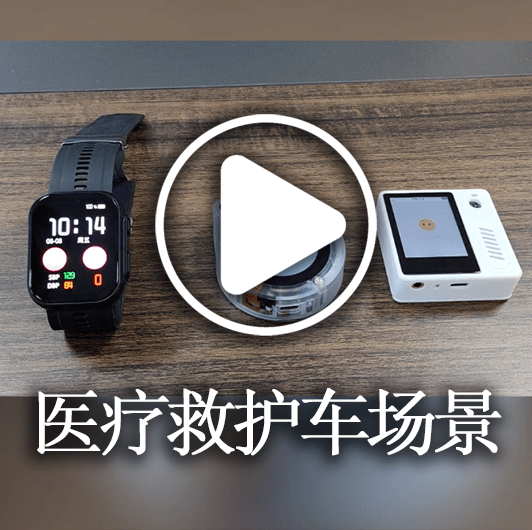
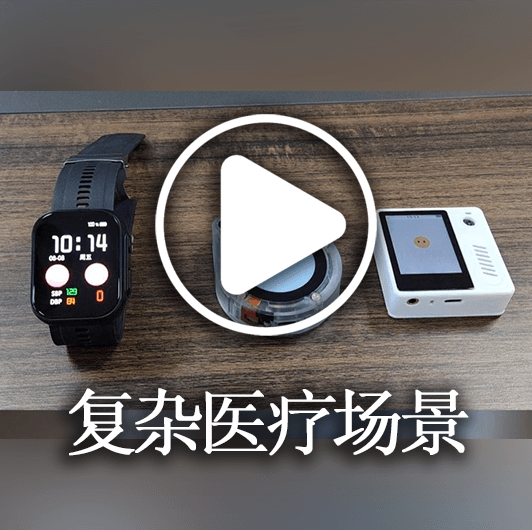
update:优化demo

diff --git a/README_en.md b/README_en.md
@@ -58,72 +58,72 @@ Want to see the usage effects? Click the videos below 🎥
     <td>
         <a href="https://www.bilibili.com/video/BV1FMFyejExX" target="_blank">
          <picture>
-           <img alt="Xiaozhi ESP32 connecting to own backend model" src="docs/images/demo1.png" />
+           <img alt="响应速度感受" src="docs/images/demo9.png" />
+         </picture>
+        </a>
+    </td>
+    <td>
+        <a href="https://www.bilibili.com/video/BV1vchQzaEse" target="_blank">
+         <picture>
+           <img alt="速度优化秘诀" src="docs/images/demo6.png" />
+         </picture>
+        </a>
+    </td>
+    <td>
+        <a href="https://www.bilibili.com/video/BV1C1tCzUEZh" target="_blank">
+         <picture>
+           <img alt="复杂医疗场景" src="docs/images/demo1.png" />
          </picture>
         </a>
     </td>
     <td>
         <a href="https://www.bilibili.com/video/BV1zUW5zJEkq" target="_blank">
          <picture>
-           <img alt="MQTT command issuance" src="docs/images/demo4.png" />
+           <img alt="MQTT指令下发" src="docs/images/demo4.png" />
          </picture>
         </a>
     </td>
     <td>
-        <a href="https://www.bilibili.com/video/BV1CDKWemEU6" target="_blank">
+        <a href="https://www.bilibili.com/video/BV1Exu3zqEDe" target="_blank">
          <picture>
-           <img alt="Custom voice timbre" src="docs/images/demo2.png" />
-         </picture>
-        </a>
-    </td>
-    <td>
-        <a href="https://www.bilibili.com/video/BV12yA2egEaC" target="_blank">
-         <picture>
-           <img alt="Using Cantonese for communication" src="docs/images/demo3.png" />
-         </picture>
-        </a>
-    </td>
-    <td>
-        <a href="https://www.bilibili.com/video/BV1pNXWYGEx1" target="_blank">
-         <picture>
-           <img alt="Controlling home appliances" src="docs/images/demo5.png" />
+           <img alt="声纹识别" src="docs/images/demo14.png" />
          </picture>
         </a>
     </td>
   </tr>
   <tr>
     <td>
-        <a href="https://www.bilibili.com/video/BV1vchQzaEse" target="_blank">
+        <a href="https://www.bilibili.com/video/BV1pNXWYGEx1" target="_blank">
          <picture>
-           <img alt="Custom voice timbre" src="docs/images/demo6.png" />
+           <img alt="控制家电开关" src="docs/images/demo5.png" />
+         </picture>
+        </a>
+    </td>
+    <td>
+        <a href="https://www.bilibili.com/video/BV1ZQKUzYExM" target="_blank">
+         <picture>
+           <img alt="MCP接入点" src="docs/images/demo13.png" />
+         </picture>
+        </a>
+    </td>
+    <td>
+      <a href="https://www.bilibili.com/video/BV1TJ7WzzEo6" target="_blank">
+         <picture>
+           <img alt="多指令任务" src="docs/images/demo11.png" />
          </picture>
         </a>
     </td>
     <td>
         <a href="https://www.bilibili.com/video/BV1VC96Y5EMH" target="_blank">
          <picture>
-           <img alt="Playing music" src="docs/images/demo7.png" />
+           <img alt="播放音乐" src="docs/images/demo7.png" />
          </picture>
         </a>
     </td>
     <td>
         <a href="https://www.bilibili.com/video/BV1Z8XuYZEAS" target="_blank">
          <picture>
-           <img alt="Weather plugin" src="docs/images/demo8.png" />
-         </picture>
-        </a>
-    </td>
-    <td>
-        <a href="https://www.bilibili.com/video/BV178XuYfEpi" target="_blank">
-         <picture>
-           <img alt="IOT command control devices" src="docs/images/demo9.png" />
-         </picture>
-        </a>
-    </td>
-    <td>
-        <a href="https://www.bilibili.com/video/BV17LXWYvENb" target="_blank">
-         <picture>
-           <img alt="News broadcasting" src="docs/images/demo0.png" />
+           <img alt="天气插件" src="docs/images/demo8.png" />
          </picture>
         </a>
     </td>
@@ -132,35 +132,35 @@ Want to see the usage effects? Click the videos below 🎥
     <td>
       <a href="https://www.bilibili.com/video/BV12J7WzBEaH" target="_blank">
          <picture>
-           <img alt="Real-time interruption" src="docs/images/demo10.png" />
+           <img alt="实时打断" src="docs/images/demo10.png" />
          </picture>
         </a>
     </td>
     <td>
       <a href="https://www.bilibili.com/video/BV1Co76z7EvK" target="_blank">
          <picture>
-           <img alt="Photo recognition of objects" src="docs/images/demo12.png" />
+           <img alt="拍照识物品" src="docs/images/demo12.png" />
          </picture>
         </a>
     </td>
     <td>
-      <a href="https://www.bilibili.com/video/BV1TJ7WzzEo6" target="_blank">
+        <a href="https://www.bilibili.com/video/BV1CDKWemEU6" target="_blank">
          <picture>
-           <img alt="Multi-command tasks" src="docs/images/demo11.png" />
+           <img alt="自定义音色" src="docs/images/demo2.png" />
          </picture>
         </a>
     </td>
     <td>
-        <a href="https://www.bilibili.com/video/BV1ZQKUzYExM" target="_blank">
+        <a href="https://www.bilibili.com/video/BV12yA2egEaC" target="_blank">
          <picture>
-           <img alt="MCP endpoint" src="docs/images/demo13.png" />
+           <img alt="使用粤语交流" src="docs/images/demo3.png" />
          </picture>
         </a>
     </td>
     <td>
-        <a href="https://www.bilibili.com/video/BV1Exu3zqEDe" target="_blank">
+        <a href="https://www.bilibili.com/video/BV17LXWYvENb" target="_blank">
          <picture>
-           <img alt="Voiceprint recognition" src="docs/images/demo14.png" />
+           <img alt="播报新闻" src="docs/images/demo0.png" />
          </picture>
         </a>
     </td>

diff --git a/README.md b/README.md
@@ -57,9 +57,23 @@ Spearheaded by Professor Siyuan Liu's Team (South China University of Technology
 <table>
   <tr>
     <td>
+        <a href="https://www.bilibili.com/video/BV1FMFyejExX" target="_blank">
+         <picture>
+           <img alt="响应速度感受" src="docs/images/demo9.png" />
+         </picture>
+        </a>
+    </td>
+    <td>
+        <a href="https://www.bilibili.com/video/BV1vchQzaEse" target="_blank">
+         <picture>
+           <img alt="速度优化秘诀" src="docs/images/demo6.png" />
+         </picture>
+        </a>
+    </td>
+    <td>
         <a href="https://www.bilibili.com/video/BV1C1tCzUEZh" target="_blank">
          <picture>
-           <img alt="小智医疗救护车场景" src="docs/images/demo1.png" />
+           <img alt="复杂医疗场景" src="docs/images/demo1.png" />
          </picture>
         </a>
     </td>
@@ -71,19 +85,14 @@ Spearheaded by Professor Siyuan Liu's Team (South China University of Technology
         </a>
     </td>
     <td>
-        <a href="https://www.bilibili.com/video/BV1CDKWemEU6" target="_blank">
+        <a href="https://www.bilibili.com/video/BV1Exu3zqEDe" target="_blank">
          <picture>
-           <img alt="自定义音色" src="docs/images/demo2.png" />
+           <img alt="声纹识别" src="docs/images/demo14.png" />
          </picture>
         </a>
     </td>
-    <td>
-        <a href="https://www.bilibili.com/video/BV12yA2egEaC" target="_blank">
-         <picture>
-           <img alt="使用粤语交流" src="docs/images/demo3.png" />
-         </picture>
-        </a>
-    </td>
+  </tr>
+  <tr>
     <td>
         <a href="https://www.bilibili.com/video/BV1pNXWYGEx1" target="_blank">
          <picture>
@@ -91,12 +100,17 @@ Spearheaded by Professor Siyuan Liu's Team (South China University of Technology
          </picture>
         </a>
     </td>
-  </tr>
-  <tr>
     <td>
-        <a href="https://www.bilibili.com/video/BV1vchQzaEse" target="_blank">
+        <a href="https://www.bilibili.com/video/BV1ZQKUzYExM" target="_blank">
          <picture>
-           <img alt="自定义音色" src="docs/images/demo6.png" />
+           <img alt="MCP接入点" src="docs/images/demo13.png" />
+         </picture>
+        </a>
+    </td>
+    <td>
+      <a href="https://www.bilibili.com/video/BV1TJ7WzzEo6" target="_blank">
+         <picture>
+           <img alt="多指令任务" src="docs/images/demo11.png" />
          </picture>
         </a>
     </td>
@@ -111,20 +125,6 @@ Spearheaded by Professor Siyuan Liu's Team (South China University of Technology
         <a href="https://www.bilibili.com/video/BV1Z8XuYZEAS" target="_blank">
          <picture>
            <img alt="天气插件" src="docs/images/demo8.png" />
-         </picture>
-        </a>
-    </td>
-    <td>
-        <a href="https://www.bilibili.com/video/BV178XuYfEpi" target="_blank">
-         <picture>
-           <img alt="IOT指令控制设备" src="docs/images/demo9.png" />
-         </picture>
-        </a>
-    </td>
-    <td>
-        <a href="https://www.bilibili.com/video/BV17LXWYvENb" target="_blank">
-         <picture>
-           <img alt="播报新闻" src="docs/images/demo0.png" />
          </picture>
         </a>
     </td>
@@ -145,23 +145,23 @@ Spearheaded by Professor Siyuan Liu's Team (South China University of Technology
         </a>
     </td>
     <td>
-      <a href="https://www.bilibili.com/video/BV1TJ7WzzEo6" target="_blank">
+        <a href="https://www.bilibili.com/video/BV1CDKWemEU6" target="_blank">
          <picture>
-           <img alt="多指令任务" src="docs/images/demo11.png" />
+           <img alt="自定义音色" src="docs/images/demo2.png" />
          </picture>
         </a>
     </td>
     <td>
-        <a href="https://www.bilibili.com/video/BV1ZQKUzYExM" target="_blank">
+        <a href="https://www.bilibili.com/video/BV12yA2egEaC" target="_blank">
          <picture>
-           <img alt="MCP接入点" src="docs/images/demo13.png" />
+           <img alt="使用粤语交流" src="docs/images/demo3.png" />
          </picture>
         </a>
     </td>
     <td>
-        <a href="https://www.bilibili.com/video/BV1Exu3zqEDe" target="_blank">
+        <a href="https://www.bilibili.com/video/BV17LXWYvENb" target="_blank">
          <picture>
-           <img alt="声纹识别" src="docs/images/demo14.png" />
+           <img alt="播报新闻" src="docs/images/demo0.png" />
          </picture>
         </a>
     </td>
